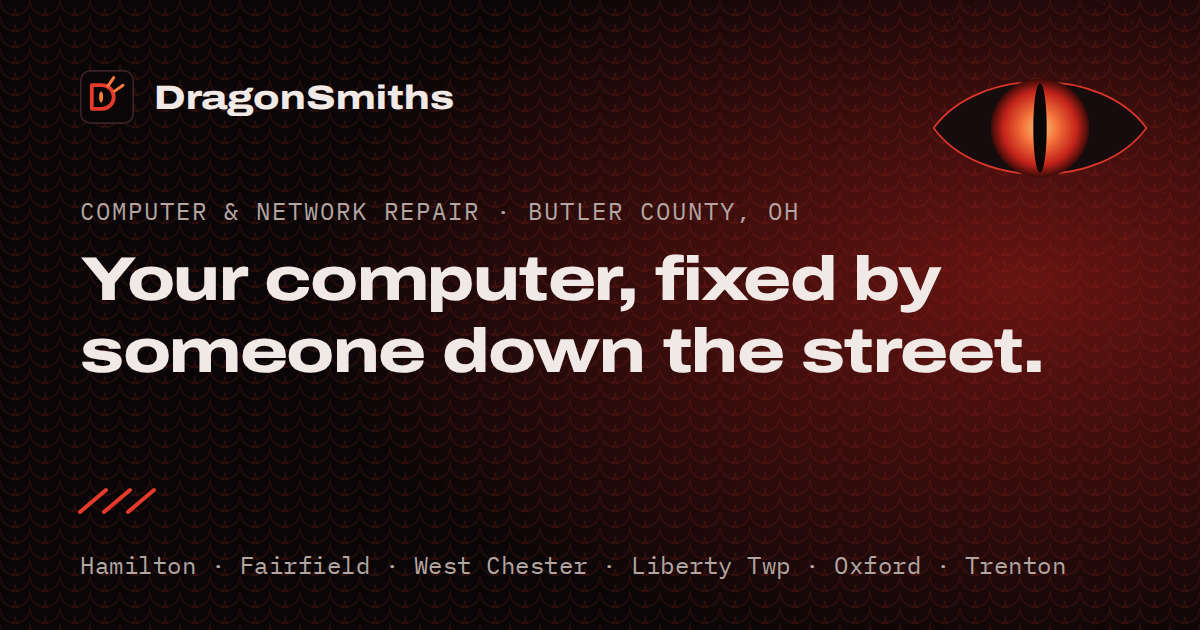
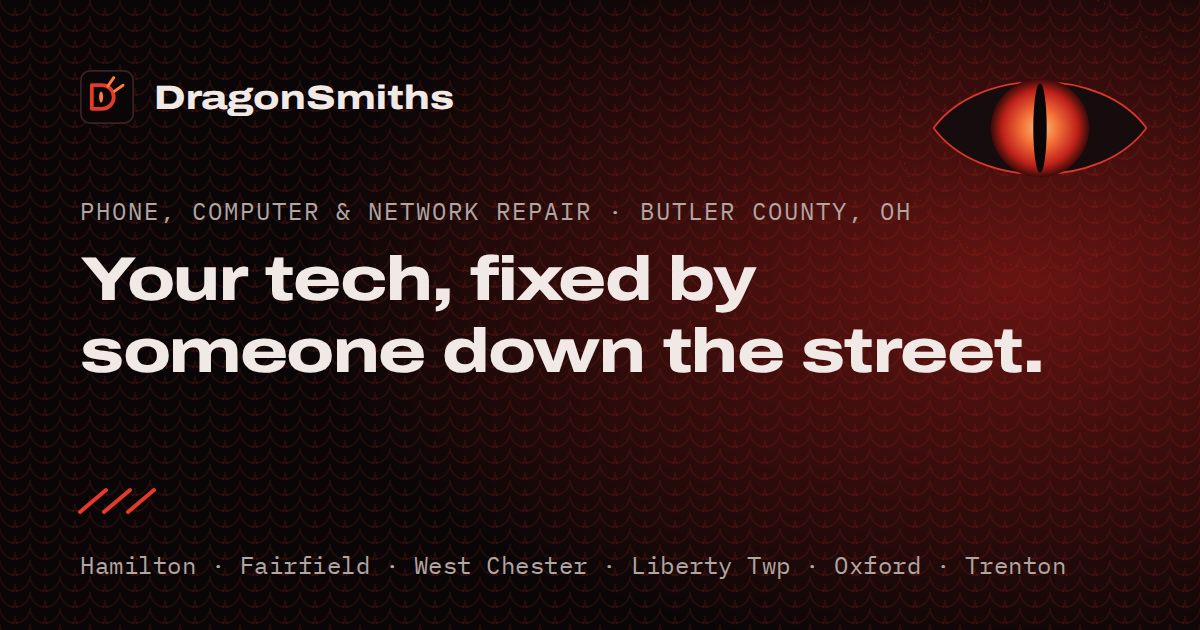
Add phone and tablet repair to the repair site
- Hero: "Your tech, fixed by someone down the street." with phones first in the lede
- Work-order picker and quote form gain Phone (iPhone / Android) and Tablet
- Rate board leads with Phone repair, priced "Quote by model" until real
  prices are set (TODO); computer row renamed for clarity
- FAQ: "Which phones do you fix?" with where to find the model number
- Title, description, social card and LocalBusiness knowsAbout mention phones

Claude-Session: https://claude.ai/code/session_01XsB194sC4DRShJwn3Ne33A

Changed region(s): [[0.2158, 0.3921, 0.8017, 0.5127], [0.0617, 0.3016, 0.7092, 0.3619], [0.74, 0.3317, 0.7708, 0.3619]]

diff --git a/index.html b/index.html
@@ -5,8 +5,8 @@
   <meta name="viewport" content="width=device-width, initial-scale=1, viewport-fit=cover">
   <meta http-equiv="Content-Security-Policy" content="default-src 'self'; script-src 'self' https://static.cloudflareinsights.com; style-src 'self'; img-src 'self' data:; font-src 'self'; connect-src 'self' https://api.web3forms.com https://cloudflareinsights.com; form-action 'self' https://api.web3forms.com; base-uri 'self'; object-src 'none'; frame-src 'none'; upgrade-insecure-requests">
   <meta name="referrer" content="strict-origin-when-cross-origin">
-  <title>DragonSmiths Tech Repair | Computer Repair in Hamilton &amp; Fairfield, OH</title>
-  <meta name="description" content="Computer repair, virus removal, SSD upgrades, custom PC builds, home Wi-Fi and small-business IT around Hamilton and Fairfield, Ohio. Firm quote before any work.">
+  <title>DragonSmiths Tech Repair | Phone &amp; Computer Repair in Hamilton &amp; Fairfield, OH</title>
+  <meta name="description" content="Phone and computer repair: cracked screens, batteries, charging ports, virus removal, SSD upgrades, custom PCs, home Wi-Fi and small-business IT around Hamilton and Fairfield, Ohio. Firm quote before any work.">
   <link rel="canonical" href="https://dragonsmithers.com/">
   <meta name="theme-color" content="#0a0607">
   <meta name="color-scheme" content="dark">
@@ -19,8 +19,8 @@
   <script src="/site.js" defer></script>
   <meta property="og:type" content="website">
   <meta property="og:site_name" content="DragonSmiths">
-  <meta property="og:title" content="DragonSmiths Tech Repair | Computer Repair in Hamilton &amp; Fairfield, OH">
-  <meta property="og:description" content="Computer repair, virus removal, SSD upgrades, custom PC builds, home Wi-Fi and small-business IT around Hamilton and Fairfield, Ohio. Firm quote before any work.">
+  <meta property="og:title" content="DragonSmiths Tech Repair | Phone &amp; Computer Repair in Hamilton &amp; Fairfield, OH">
+  <meta property="og:description" content="Phone and computer repair: cracked screens, batteries, charging ports, virus removal, SSD upgrades, custom PCs, home Wi-Fi and small-business IT around Hamilton and Fairfield, Ohio. Firm quote before any work.">
   <meta property="og:url" content="https://dragonsmithers.com/">
   <meta property="og:image" content="https://dragonsmithers.com/og/home.png">
   <meta property="og:image:width" content="1200">
@@ -28,8 +28,8 @@
   <meta property="og:image:alt" content="DragonSmiths Tech Repair: computer and network repair in Hamilton and Fairfield, Ohio">
   <meta property="og:locale" content="en_US">
   <meta name="twitter:card" content="summary_large_image">
-  <meta name="twitter:title" content="DragonSmiths Tech Repair | Computer Repair in Hamilton &amp; Fairfield, OH">
-  <meta name="twitter:description" content="Computer repair, virus removal, SSD upgrades, custom PC builds, home Wi-Fi and small-business IT around Hamilton and Fairfield, Ohio. Firm quote before any work.">
+  <meta name="twitter:title" content="DragonSmiths Tech Repair | Phone &amp; Computer Repair in Hamilton &amp; Fairfield, OH">
+  <meta name="twitter:description" content="Phone and computer repair: cracked screens, batteries, charging ports, virus removal, SSD upgrades, custom PCs, home Wi-Fi and small-business IT around Hamilton and Fairfield, Ohio. Firm quote before any work.">
   <meta name="twitter:image" content="https://dragonsmithers.com/og/home.png">
   <meta name="twitter:image:alt" content="DragonSmiths Tech Repair: computer and network repair in Hamilton and Fairfield, Ohio">
   <script type="application/ld+json">
@@ -42,7 +42,7 @@
     "email": "darshan@dragonsmithers.com",
     "image": "https://dragonsmithers.com/og/home.png",
     "logo": "https://dragonsmithers.com/icon-512.png",
-    "description": "Computer repair, custom PC builds, home Wi-Fi and small-business IT for homes and small businesses around Hamilton and Fairfield, Ohio.",
+    "description": "Phone and computer repair, custom PC builds, home Wi-Fi and small-business IT for homes and small businesses around Hamilton and Fairfield, Ohio.",
     "areaServed": [
       {
         "@type": "City",
@@ -75,6 +75,9 @@
       "url": "https://dragonsmithers.com/portfolio/"
     },
     "knowsAbout": [
+      "Phone repair",
+      "Phone screen replacement",
+      "Phone battery replacement",
       "Computer repair",
       "Malware removal",
       "SSD upgrades",
@@ -107,9 +110,9 @@
     <div class="embers" aria-hidden="true"><i></i><i></i><i></i><i></i><i></i><i></i><i></i><i></i><i></i><i></i><i></i><i></i></div>
     <div class="wrap">
       <div class="copy">
-        <span class="label">Computer &amp; network repair · Butler County, OH</span>
-        <h1 id="hero-title">Your computer, fixed by someone <span class="u-solder">down the street.</span></h1>
-        <p class="lede">Slow laptops, dead Wi-Fi, malware, broken screens and custom PC builds for homes and small businesses around Hamilton and Fairfield. I find the actual problem and give you a firm price before touching anything.</p>
+        <span class="label">Phone, computer &amp; network repair · Butler County, OH</span>
+        <h1 id="hero-title">Your tech, fixed by someone <span class="u-solder">down the street.</span></h1>
+        <p class="lede">Cracked phone screens, dying batteries, slow laptops, dead Wi-Fi, malware and custom PC builds for homes and small businesses around Hamilton and Fairfield. I find the actual problem and give you a firm price before touching anything.</p>
         <div class="actions" data-bar-hide>
           <!-- TODO(darshan): confirm "free" quotes/diagnosis before keeping this wording. -->
           <a class="btn solid" href="#quote">Get a free quote</a>
@@ -146,6 +149,8 @@
         </div>
         <p>What needs fixing? Pick one and I'll set up the quote form for it.</p>
         <ul class="devices">
+          <li><a href="/?device=Phone%20(iPhone%20%2F%20Android)#quote" data-device="Phone (iPhone / Android)"><svg aria-hidden="true" focusable="false" viewBox="0 0 24 24" fill="none" stroke="currentColor" stroke-width="1.8" stroke-linecap="round" stroke-linejoin="round"><rect x="7" y="2.5" width="10" height="19" rx="2"/><path d="M11 18.5h2"/></svg>Phone</a></li>
+          <li><a href="/?device=Tablet#quote" data-device="Tablet"><svg aria-hidden="true" focusable="false" viewBox="0 0 24 24" fill="none" stroke="currentColor" stroke-width="1.8" stroke-linecap="round" stroke-linejoin="round"><rect x="4" y="3" width="16" height="18" rx="2"/><path d="M11 18h2"/></svg>Tablet</a></li>
           <li><a href="/?device=Windows%20laptop#quote" data-device="Windows laptop"><svg aria-hidden="true" focusable="false" viewBox="0 0 24 24" fill="none" stroke="currentColor" stroke-width="1.8" stroke-linecap="round" stroke-linejoin="round"><rect x="4" y="5" width="16" height="11" rx="1"/><path d="M2 19h20"/></svg>Windows laptop</a></li>
           <li><a href="/?device=Windows%20desktop#quote" data-device="Windows desktop"><svg aria-hidden="true" focusable="false" viewBox="0 0 24 24" fill="none" stroke="currentColor" stroke-width="1.8" stroke-linecap="round" stroke-linejoin="round"><rect x="3" y="4" width="18" height="12" rx="1"/><path d="M9 20h6M12 16v4"/></svg>Desktop PC</a></li>
           <li><a href="/?device=Mac#quote" data-device="Mac"><svg aria-hidden="true" focusable="false" viewBox="0 0 24 24" fill="none" stroke="currentColor" stroke-width="1.8" stroke-linecap="round" stroke-linejoin="round"><rect x="4" y="5" width="16" height="11" rx="2"/><path d="M2 19h20M11 5.5h2"/></svg>Mac</a></li>
@@ -169,8 +174,14 @@
       </div>
       <!-- TODO(darshan): confirm every price on this board. To edit, change the number inside <div class="price">. -->
       <div class="rates">
+        <!-- TODO(darshan): confirm which phone repairs you do and set prices (or keep "Quote by model"). -->
         <div class="rate">
-          <h3>Repair &amp; tune-up</h3>
+          <h3>Phone repair</h3>
+          <p>Cracked screens, worn-out batteries, charging ports that only work at an angle, and water damage checks. iPhone and Android.</p>
+          <div class="price">Quote<small>by model</small></div>
+        </div>
+        <div class="rate">
+          <h3>Computer repair &amp; tune-up</h3>
           <p>Slow computer cleanup, Windows reinstall, fan and battery swaps, screen replacement.</p>
           <div class="price">$49<small>starting</small></div>
         </div>
@@ -326,6 +337,14 @@
           </div>
         </details>
         <details>
+          <summary>Which phones do you fix?</summary>
+          <div class="answer">
+          <!-- TODO(darshan): confirm the phone brands/models and repairs you take on. -->
+          <p>iPhone and Android phones. The price depends on the exact model and the part, so put the model in the quote form (iPhone: Settings &gt; General &gt; About; Android: Settings &gt; About phone) and I'll send a firm price before ordering anything.</p>
+          <p>Back up your phone before any repair if you can. Your photos and data stay on the phone, and I only open what the repair needs.</p>
+          </div>
+        </details>
+        <details>
           <summary>Do you work on Macs?</summary>
           <div class="answer">
           <!-- TODO(darshan): confirm what you do and don't do on Macs (software only? hardware too?). -->
@@ -406,6 +425,8 @@
             <div class="field">
               <label for="q-device">Device</label>
               <select id="q-device" name="device">
+                <option>Phone (iPhone / Android)</option>
+                <option>Tablet</option>
                 <option>Windows laptop</option>
                 <option>Windows desktop</option>
                 <option>Mac</option>
